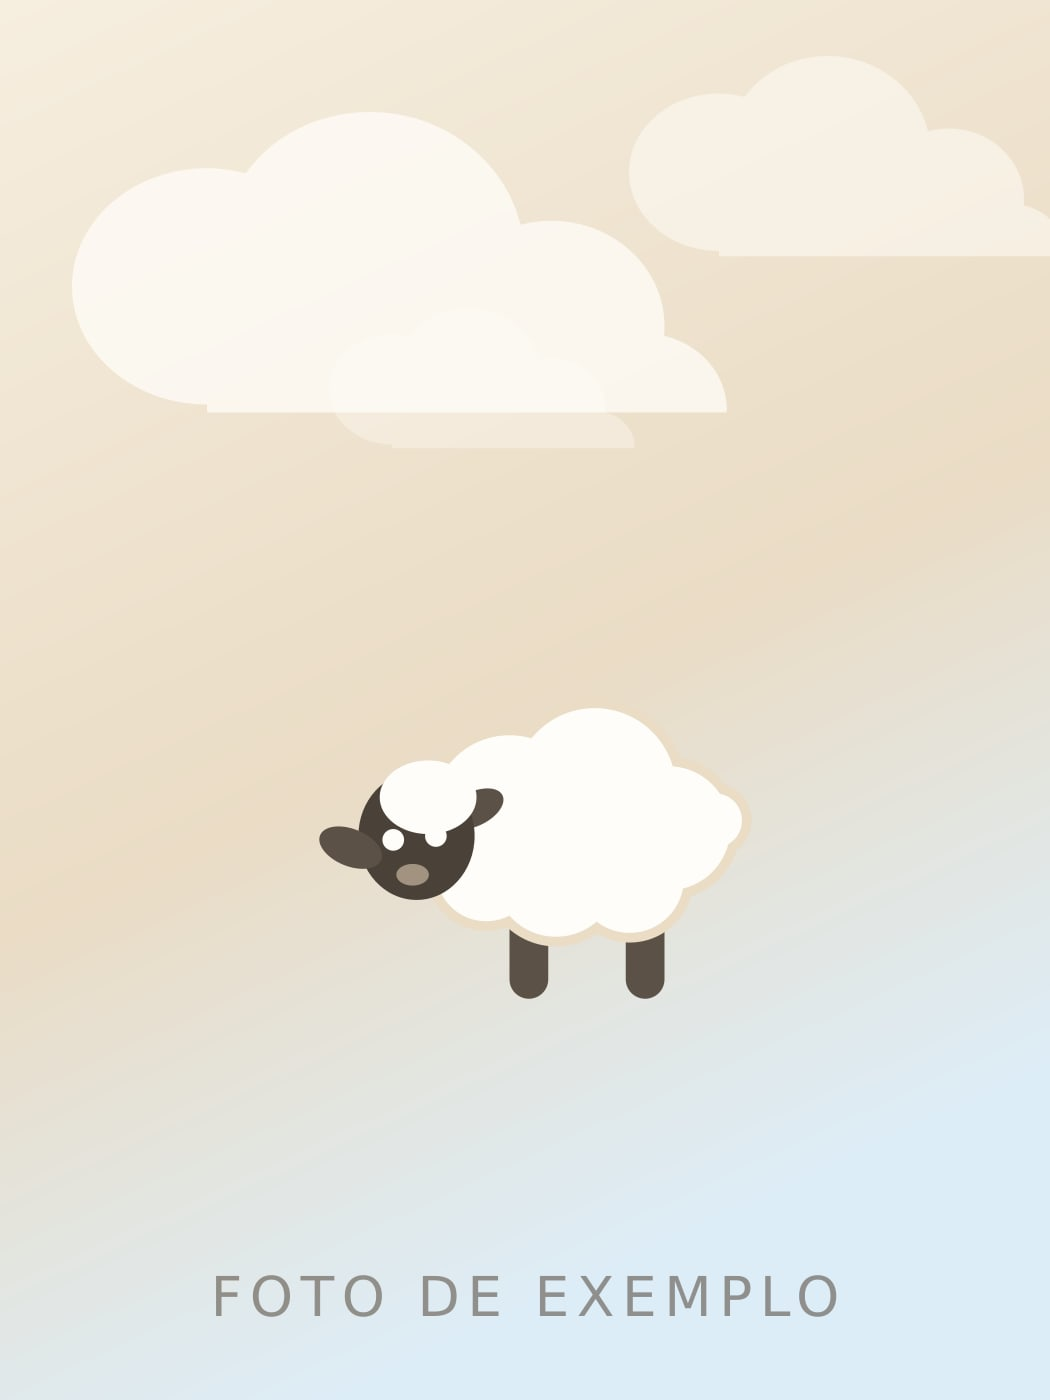
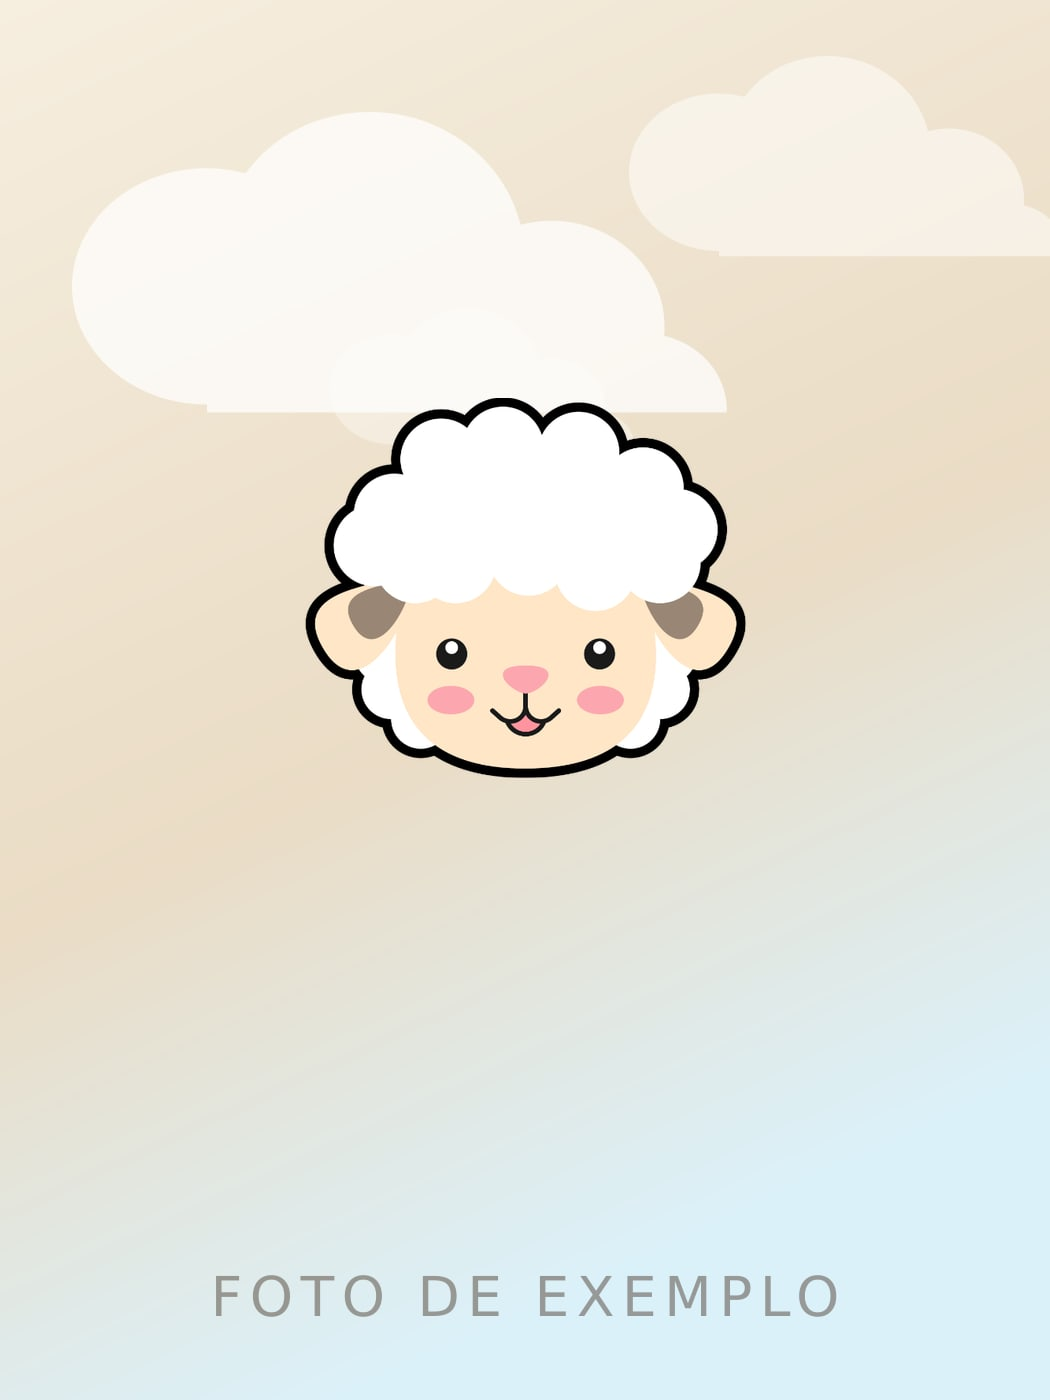
Coloca a marca oficial no site
A logo colorida vira o hero da home, dentro do <h1> e com o nome no alt,
para que leitor de tela e buscador leiam "Cordeirinhos de Cristo" como
título e não uma imagem anônima. A logo branca vai para o rodapé, onde o
azul escuro dá 9.4:1 de contraste. O rosto da ovelha entra no cabeçalho,
no "Quem somos" e na 404.

O componente Ovelha passa a carregar o arquivo oficial em vez do desenho
que eu tinha feito, então tudo que já usava ele atualizou junto.

Favicon refeito a partir do rosto, em PNG de 32 e 192 mais o ícone de
180 para celular, sobre o azul da marca. O favicon.svg desenhado saiu.

As fotos de exemplo foram regeradas com o rosto oficial: antes elas ainda
tinham a ovelha que eu havia desenhado, o que deixava dois personagens
diferentes na mesma tela.

Lighthouse segue em 100 nas quatro categorias, CLS 0 e TBT 0 ms. A página
foi de 115 KB para 161 KB, que é o custo da logo.

Claude-Session: https://claude.ai/code/session_019gZVrxuJnq1V8xTcxxGDm7

Changed region(s): [[0.3048, 0.2764, 0.7314, 0.7371], [0.2743, 0.43, 0.3048, 0.4607]]

diff --git a/README.md b/README.md
@@ -21,6 +21,7 @@ npm run preview  # serve o dist/
 | Fotos dos eventos | `src/assets/fotos/` |
 | Cabeçalho, rodapé, cartão de evento | `src/components/` |
 | Texto da página de erro | `src/pages/404.astro` |
+| Logo e rosto da ovelha | `src/assets/marca/` |
 | Cores, fontes, espaçamento, animações | `src/styles/global.css` |
 
 > Os valores ainda pendentes estão marcados com **`PREENCHER`**.
@@ -50,6 +51,22 @@ preenchimento e decoração. O styleguide mostra isso tom a tom.
 Baloo 2 (títulos) e Inter (corpo) estão versionadas em `src/assets/fontes/`,
 só o subconjunto latino. O build não fala com Google Fonts nem com CDN
 nenhum. Veja `src/assets/fontes/LEIA-ME.md` para atualizar.
+
+## A marca no site
+
+| Onde | Qual arquivo |
+| --- | --- |
+| Hero da home (é o `<h1>`) | `logo-colorida.png` |
+| Rodapé | `logo-branca.png` |
+| Cabeçalho, "Quem somos", 404 | `ovelha.png` |
+| Favicon e ícone de celular | gerados de `ovelha.png` |
+
+No hero a logo é a imagem dentro do `<h1>`, com o nome no `alt` — então
+leitor de tela e buscador leem "Cordeirinhos de Cristo" como título da
+página, e não uma imagem sem nome.
+
+Veja `src/assets/marca/LEIA-ME.md` para trocar os arquivos e para entender
+por que os `.svg` entregues não são usados direto.
 
 ## Animações
 
